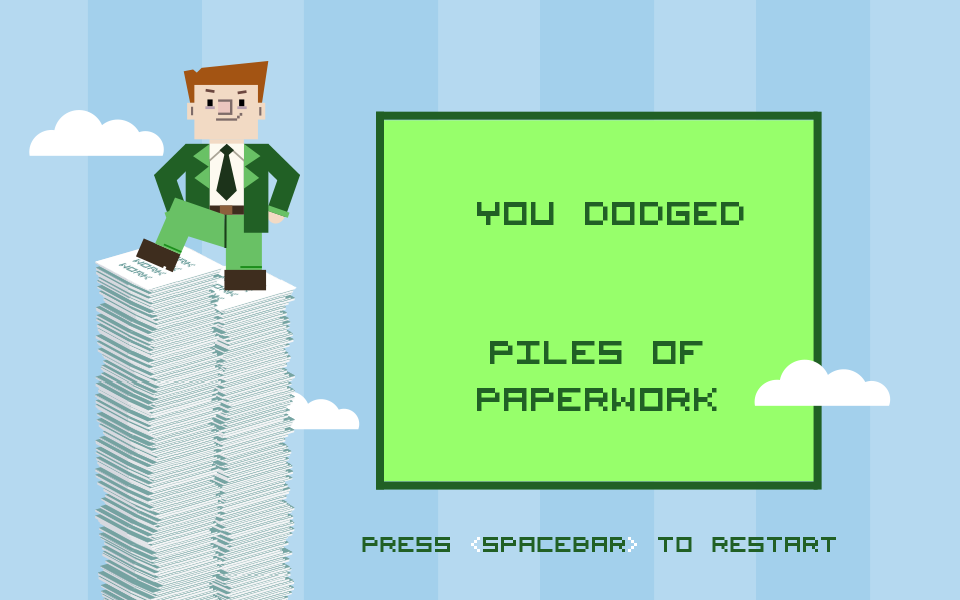
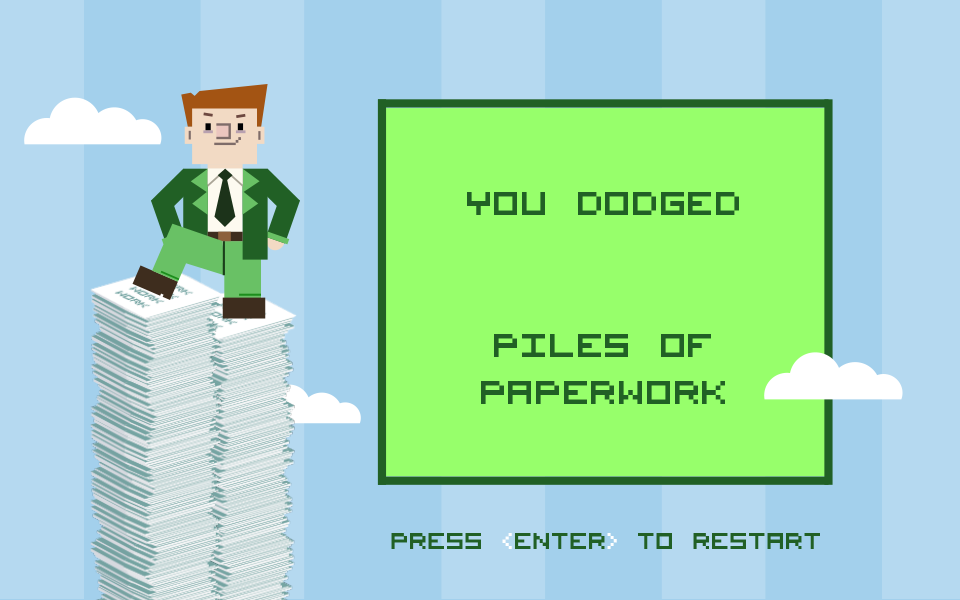
Final adjustments

diff --git a/lenasottomayor/FlapBird_5-45/js/play.js b/lenasottomayor/FlapBird_5-45/js/play.js
@@ -1,6 +1,7 @@
 var playGame = { create: create, update: update };
 
 function create() {
+	musicMenu.stop();
 	
 	background = game.add.tileSprite(0, 0, game.stage.bounds.width,game.cache.getImage('background').height, 'background');
 	background.autoScroll(-60, 0);	 
@@ -25,7 +26,7 @@ function create() {
 	jumps = 0;
 	collide = false;
 
-	musicMenu.stop();
+	
 	
 	musicGame = game.add.audio('music');
     musicGame.play('',0,0.2,true);

diff --git a/lenasottomayor/FlapBird_5-45/js/score.js b/lenasottomayor/FlapBird_5-45/js/score.js
@@ -13,8 +13,8 @@ function create() {
 }
     
 function update(){
-	var keySpacebar = game.input.keyboard.addKey(Phaser.Keyboard.SPACEBAR);
-	keySpacebar.onDown.add(restart, this);
+	var keyENTER = game.input.keyboard.addKey(Phaser.Keyboard.ENTER);
+	keyENTER.onDown.add(restart, this);
 }
 function restart() {
 	musicGameOver.stop();
